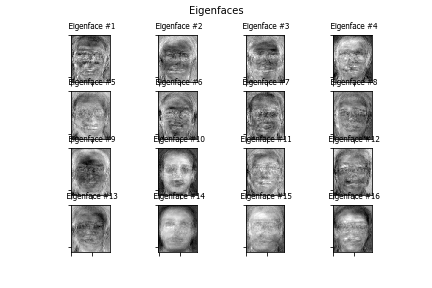
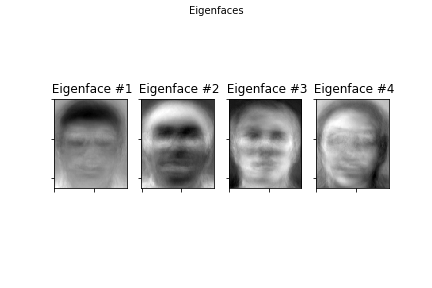
need to figure out weights

diff --git a/ece5831_hw2.py b/ece5831_hw2.py
@@ -26,9 +26,6 @@ def normalize(X, low, high, dtype=None):
         return np.asarray(X)
     return np.asarray(X, dtype=dtype)    
 
-def create_font(fontname='Tahoma', fontsize=10):
-    return { 'fontname': fontname , 'fontsize':fontsize }
-
 def subplot(title, images, rows, cols, sptitle="subplot", \
             sptitles=[], colormap=cm. gray, ticks_visible=True,\
             filename=None):
@@ -40,9 +37,9 @@ def subplot(title, images, rows, cols, sptitle="subplot", \
         plt.setp(ax0.get_xticklabels(), visible=False)
         plt.setp(ax0.get_yticklabels(), visible=False)
         if len(sptitles) == len(images):
-            plt.title("%s #%s" % (sptitle, str(sptitles[i])), create_font('Tahoma',8))
+            plt.title("%s #%s" % (sptitle, str(sptitles[i])))
         else:
-            plt.title("%s #%d" % (sptitle, (i+1)), create_font('Tahoma',8))
+            plt.title("%s #%d" % (sptitle, (i+1)))
         plt.imshow(np.asarray(images[i]), cmap=colormap)
     if filename is None:
         plt.show()
@@ -77,119 +74,94 @@ def readImages(path, sz=None):
 [trainingFaces,trainingFacesNum] = readImages('/Users/tbrady/drive/sw/att_faces/')
 
 # create a matrix of y columns where each image is stored in one row
-traingingFaceMatrix = np.empty((trainingFaces[0].size, 0), dtype='float64')
+trainingFaceMatrix = np.empty((trainingFaces[0].size, 0), dtype='float64')
 for col in trainingFaces:
-    traingingFaceMatrix = np.hstack((traingingFaceMatrix ,np.asarray(col).reshape(-1, 1)))
+    trainingFaceMatrix = np.hstack((trainingFaceMatrix ,np.asarray(col).reshape(-1, 1)))
 
-averageFaceVector   = np.array(traingingFaceMatrix.mean(axis=1))
-phiMatrix           = (traingingFaceMatrix.transpose() - averageFaceVector).transpose()
+averageFaceVector   = np.array(trainingFaceMatrix.mean(axis=1))
+
+phiMatrix           = (trainingFaceMatrix.transpose() - averageFaceVector).transpose()
+
 eigenMatrix         = np.dot(phiMatrix.T,phiMatrix)
-[eigenvalues ,eigenvectors] = np.linalg.eigh(eigenMatrix)
+[eigenvalues ,eigenvectors] = np.linalg.eig(eigenMatrix)
 idx                 = np.argsort(-eigenvalues)
 eigenvalues         = eigenvalues[idx]
 eigenvectors        = eigenvectors[:,idx]
 
-### show the average face
-#e = averageFace.reshape(imageMatrix[0].shape)
-#eNorm = normalize(e,0,255)
-#plt.imshow(eNorm)
 
+numComponents       = 4
+eigenvalues         = eigenvalues[0:numComponents].copy()
+eigenvectors        = eigenvectors[:, 0:numComponents].copy()
 
-#
-#mat = np.dot(colMatrix.T,colMatrix)
-#
-#[eigenvalues ,eigenvectors] = np.linalg.eigh(mat)
-#
-#idx             = np.argsort(-eigenvalues)
-#eigenvalues     = eigenvalues[idx]
-#eigenvectors    = eigenvectors[:,idx]
+eigenvectors        = np.dot(trainingFaceMatrix, eigenvectors)
+norms               = np.linalg.norm(eigenvectors, axis=0)
+eigenvectors /= norms
 
 
 
+def printVector(v):
+    e = v.reshape(trainingFaces[0].shape)
+    e = normalize(e,0,255)
+    plt.imshow(e)
 
-## begin the PCA
-## number of the columns elements
-#num_components = colMatrix.shape[0]
-## take the mean computed along the columns
-#mu = colMatrix.mean(axis=1)
-#
-
-#
-## subtract the mean from the columns
-#colMatrix = (colMatrix.T - mu)
-## take the dot product of the column matrix and the column matrix's transpose
-#C = np.dot(colMatrix.T,colMatrix)
-## calculate the eigenvalues and eigenvectors
-#[eigenvalues, eigenvectors] = np.linalg.eigh(C)
-## sort eigenvectors descending by their eigenvalue
-#idx             = np.argsort(-eigenvalues)
-#eigenvalues     = eigenvalues[idx]
-#eigenvectors    = eigenvectors[:,idx]
-## select only num_components
-#eigenvalues     = eigenvalues[0:num_components].copy()
-#eigenvectors    = eigenvectors[:, 0:num_components].copy()
-#
-
-
-    
-    
-def pca(X, y, num_components=0):
-    [n,d] = X.shape
-    if (num_components <= 0) or (num_components >n):
-        num_components = n
-    mu = X.mean(axis=0)
-    X = X - mu
-    if n>d:
-        C = np.dot(X.T,X)
-        [eigenvalues ,eigenvectors] = np.linalg.eigh(C)
-        eigenvectors = np.dot(X,eigenvectors.T)
-    else:
-        C = np.dot(X,X.T)
-        [eigenvalues ,eigenvectors] = np.linalg.eigh(C)
-        eigenvectors = np.dot(X.T,eigenvectors)
-        for i in range(n):
-            eigenvectors[:,i] = eigenvectors[:,i]/np.linalg.norm(eigenvectors[:,i])
-
-    idx = np.argsort(-eigenvalues)
-    eigenvalues = eigenvalues[idx]
-    eigenvectors = eigenvectors[:,idx]
-    eigenvalues = eigenvalues[0:num_components].copy()
-    eigenvectors = eigenvectors[:,0:num_components].copy()
-    return [eigenvalues , eigenvectors , mu]
-
-def asRowMatrix(X):
-    if len(X) == 0:
-        return np.array([])
-    mat = np.empty((0, X[0].size), dtype=X[0].dtype) 
-    for row in X:
-        mat = np.vstack((mat, np.asarray(row).reshape(1,-1)))
-    return mat
-
-def asColumnMatrix(X):
-    if len(X) == 0:
-        return np.array([])
-    mat = np.empty((X[0].size, 0), dtype=X[0].dtype)
-    for col in X:
-        mat = np.hstack((mat, np.asarray(col).reshape(-1,1)))
-    return mat
-
-#[eigenvalues , eigenvectors , mu] = pca(asColumnMatrix(X), y)
-
-
-
-
-
-
-
-#E = []
-#for i in range(min(len(X), 16)):
-#    e = eigenvectors[:,i].reshape(X[0].shape)
-#    E.append(normalize(e,0,255))
+E = []
+for i in range(min(len(trainingFaceMatrix), numComponents)):
+    e = eigenvectors[:,i].reshape(trainingFaces[0].shape)
+    E.append(normalize(e,0,255))
 #    # plot them and store the plot to "python_eigenfaces.pdf"
+
+subplot(title="Eigenfaces", images=E, rows=numComponents/4, \
+        cols=4, sptitle=" Eigenface", colormap=cm.binary, \
+        filename="python_pca_eigenfaces.png")
+
+face = trainingFaceMatrix[:,0] - averageFaceVector
+newFace = np.dot(eigenvectors[:,0].T,face)
+#
+#def project (W, X ,mu = None):
+#    if mu is None :
+#        return np.dot(X, W)
+#    return np.dot(X - mu, W)
+#
+#def reconstruct (W, Y, mu = None ):
+#    if mu is None:
+#        return np.dot(Y, W.T)
+#    return np.dot(Y, W.T) + mu
+#
+##steps = [i for i in range(10, min(len(trainingFaceMatrix),320), 20)]
+#steps = [10,20]
+#E = []
+#for i in range(min(len(steps),16)):
+#    numEvs = steps[i]
+#    P = project(eigenvectors[:,0:numEvs],trainingFaces[0].reshape(-1, 1) , averageFaceVector)
+#    R = reconstruct(eigenvectors[:,0:numEvs ], P , averageFaceVector)
 #    
-#subplot(title="Eigenfaces", images=E, rows=4, \
-#        cols=4, sptitle=" Eigenface", colormap=cm.binary, \
-#        filename="python_pca_eigenfaces.png")
+#    
+#    R = R.reshape(trainingFaces[0].shape)
+#    E.append(normalize(R,0,255))
+
+
+
+
+
+
+
+
+
+
+
+
+
+
+
+
+
+
+
+
+
+
+
+
 
 
 
